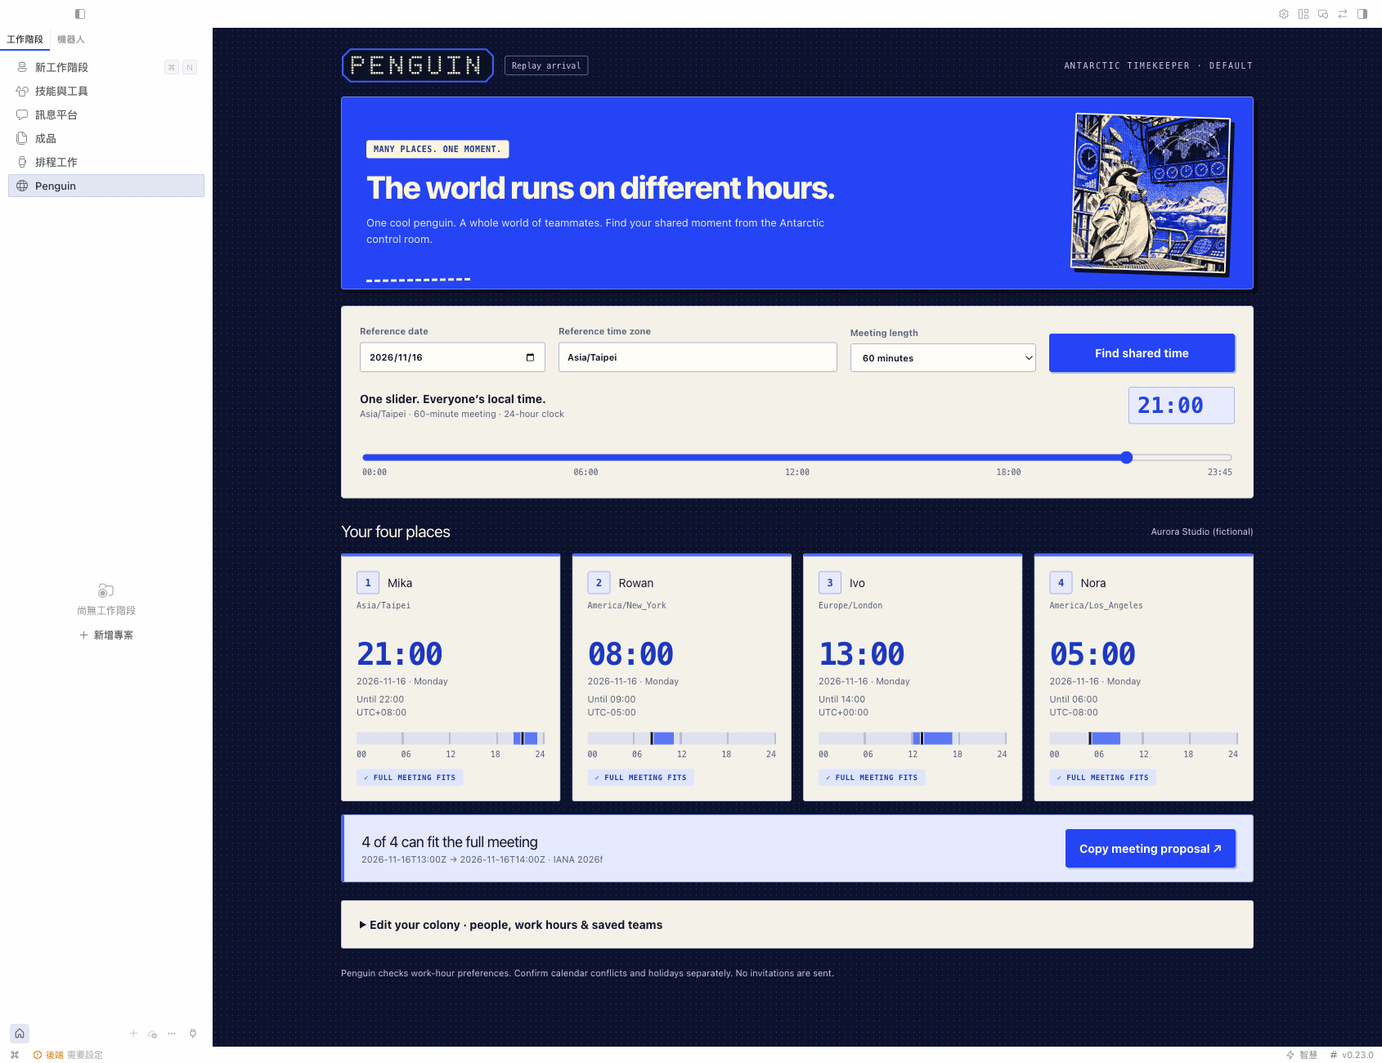
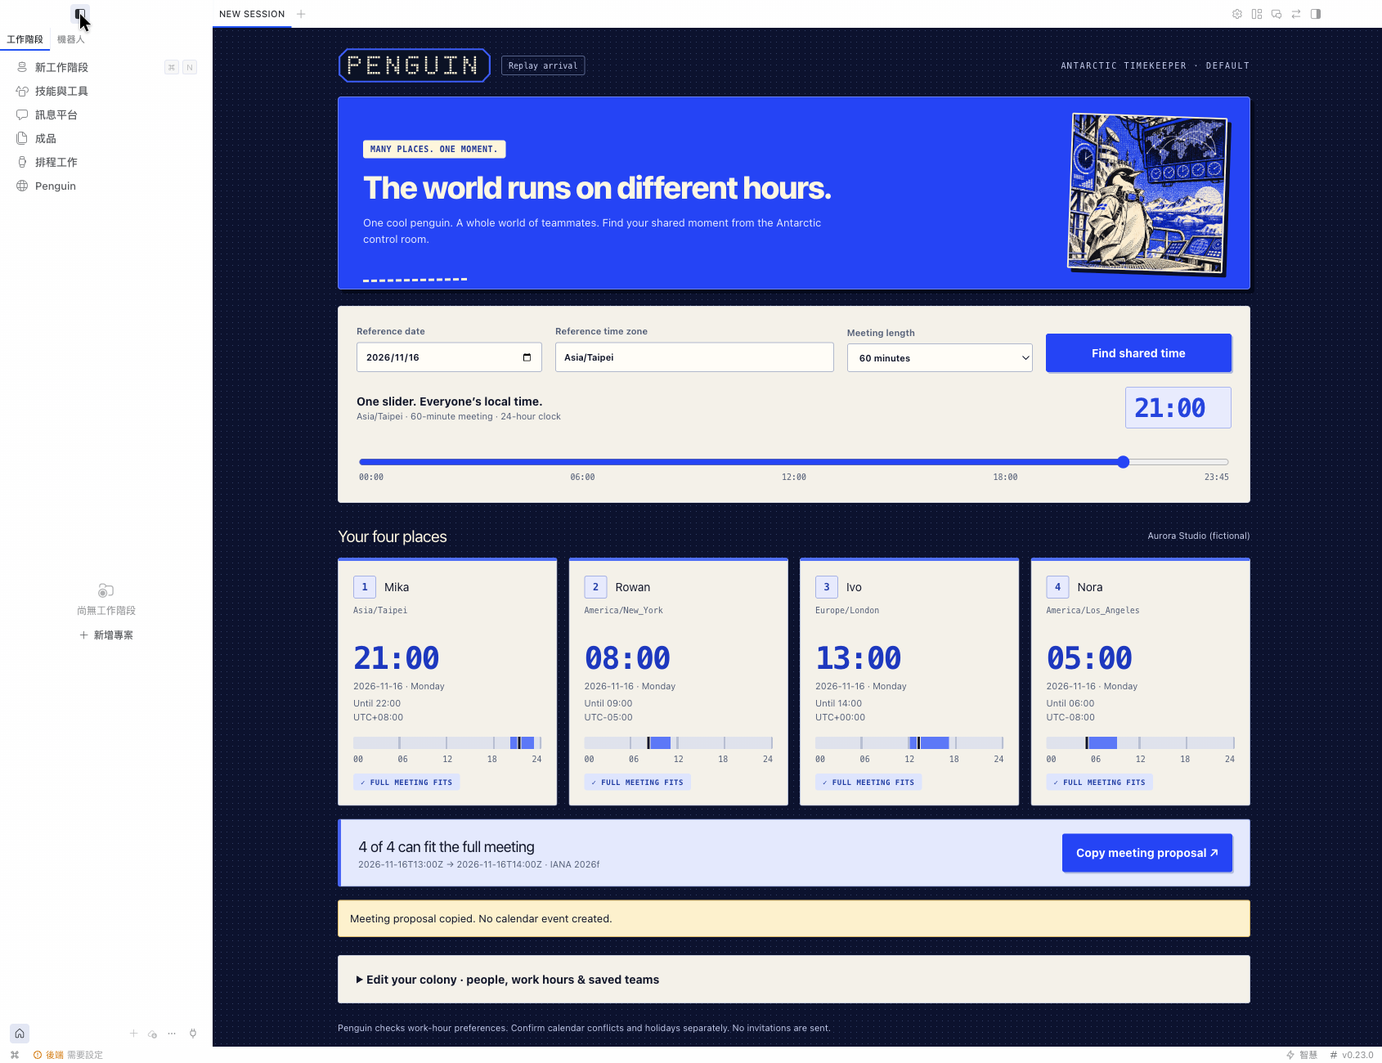
Refine Penguin timeline and proposal send-off; document brand typography

diff --git a/desktop/plugin.js b/desktop/plugin.js
@@ -39,6 +39,29 @@ const introCss = `
 @container(max-width:480px){.p-intro{padding:20px 14px}.p-intro .p-console{padding:20px 12px;border-width:6px}.p-intro .p-console:before{font-size:8px;letter-spacing:1px}.p-intro h1{font-size:23px}.p-intro .p-art{width:200px;height:200px}.p-replay{max-width:90px}}
 `
 
+const experienceCss = `
+.penguin-page{--p-mono:ui-monospace,monospace;--p-display:system-ui,sans-serif}
+.penguin-page .p-selected input{font:700 32px var(--p-mono);font-variant-numeric:tabular-nums;letter-spacing:-2px}
+.penguin-page .p-clockcard .p-time{font-family:var(--p-mono);font-weight:700;font-variant-numeric:tabular-nums;letter-spacing:-2px}
+.penguin-page .p-clocks[aria-busy=true]{opacity:.68}.penguin-page .p-marker{transition:left 120ms linear}
+.p-sendoff{position:relative;isolation:isolate;overflow:hidden;border:1px solid #6e99ff;border-radius:5px;background:#09152e;color:#edf7ff;padding:22px 24px;margin-top:18px;display:flex;gap:24px;align-items:center;animation:p-arrive 400ms ease-out}.p-sendoff .p-art{width:132px;height:132px;flex:0 0 132px;border:1px solid #6a9aff;transform:none;box-shadow:none}.p-sendoff .p-sendoff-copy{flex:1;min-width:0}.p-sendoff h2{font:700 13px var(--p-mono);letter-spacing:1px;color:#9dc6ff;margin:0 0 8px}.p-sendoff h3{font-size:clamp(20px,2.4cqw,28px);font-family:var(--p-display);line-height:1.2;margin:0 30px 10px 0;color:#fff7e5}.p-sendoff p{font-size:13px;color:#c7dafa;margin:7px 0}.p-sendoff button{position:absolute;top:12px;right:12px;background:#132a55;border:1px solid #7899d8;color:white;border-radius:3px;padding:5px 9px;font-size:13px}.p-sendoff .p-final-times{display:flex;gap:7px 18px;flex-wrap:wrap;font:12px var(--p-mono);color:#d4e8ff}.p-sendoff .p-aurora{position:absolute;inset:-50% -10%;z-index:-1;opacity:.38;background:radial-gradient(circle,#e9faff 1px,transparent 1.7px);background-size:7px 7px;mask-image:linear-gradient(165deg,transparent 37%,black 43%,transparent 49%,black 54%,transparent 62%);background-color:#1252df;transform:translateX(-4%) skewY(-8deg);animation:p-aurora 6s ease-in-out 1 alternate}
+
+@keyframes p-aurora{0%{transform:translateX(-10%) skewY(-13deg);opacity:.1}45%{opacity:.45}100%{transform:translateX(5%) skewY(5deg);opacity:.38}}
+@media(prefers-reduced-motion:reduce){.p-sendoff,.p-sendoff .p-aurora,.penguin-page .p-marker{animation:none;transition:none}}
+@container(max-width:800px){.p-sendoff{gap:16px;padding:20px}.p-sendoff .p-art{width:100px;height:100px;flex-basis:100px}}
+@container(max-width:480px){.penguin-page .p-selected input{font-size:28px;max-width:112px}.p-sendoff{display:block;padding:18px}.p-sendoff .p-art{width:86px;height:86px;margin-bottom:14px}.p-sendoff h3{font-size:23px}.p-sendoff .p-final-times{display:grid;grid-template-columns:1fr 1fr;font-size:11px}}
+`
+
+function SendOff({ctx,slot,onClose}) {
+  return h('section',{className:'p-sendoff','aria-label':'Meeting proposal completed'},
+    h('div',{className:'p-aurora','aria-hidden':true}),h(PenguinArt,{ctx}),
+    h('div',{className:'p-sendoff-copy'},h('h2',{},'PROPOSAL COPIED · TRANSMISSION COMPLETE'),
+      h('h3',{},'Dismissed. See you next time in the Antarctic control room.'),
+      h('div',{className:'p-final-times'},...slot.members.map((m,i)=>h('span',{key:i},`${m.name} ${m.start.local.slice(11,16)} · ${m.start.date}`))),
+      h('p',{},'Share the proposal and confirm availability. No calendar event has been created.')),
+    h('button',{onClick:onClose,'aria-label':'Close send-off'},'×'))
+}
+
 function ControlRoom({ctx,onContinue}) {
   useEffect(()=>{const timer=setTimeout(onContinue,3600);return()=>clearTimeout(timer)},[])
   return h('section',{className:'p-intro','aria-label':'Antarctic control room'},
@@ -132,12 +155,13 @@ function Planner({ctx,profile}) {
   const [team,setTeam]=useState(sample), [teamId,setTeamId]=useState('aurora-demo')
   const [date,setDate]=useState('2026-11-16'), [reference,setReference]=useState('Asia/Taipei'), [duration,setDuration]=useState('60')
   const [time,setTime]=useState('21:00'), [ambiguity,setAmbiguity]=useState('reject')
-  const [view,setView]=useState(null), [previewError,setPreviewError]=useState(null)
+  const [view,setView]=useState(null), [previewError,setPreviewError]=useState(null), [previewPending,setPreviewPending]=useState(true)
+  const [completed,setCompleted]=useState(null)
   const [result,setResult]=useState(null), [notice,setNotice]=useState(''), [busy,setBusy]=useState(false), [manual,setManual]=useState('')
   const generation=useRef(0), previewGeneration=useRef(0), epoch=useRef(gatewayActivationEpoch())
   function resetScope(){
     generation.current++;previewGeneration.current++;epoch.current=gatewayActivationEpoch()
-    setTeam(sample());setTeamId('aurora-demo');setResult(null);setView(null);setManual('');setBusy(false)
+    setTeam(sample());setTeamId('aurora-demo');setResult(null);setView(null);setManual('');setBusy(false);setCompleted(null);setPreviewPending(true)
     setNotice('Connection changed. Fictional sample restored. Load a team from this profile to continue.')
   }
   useEffect(()=>{
@@ -146,27 +170,28 @@ function Planner({ctx,profile}) {
   },[])
   useEffect(()=>{
     const seq=++previewGeneration.current,captured=epoch.current
-    setView(null);setPreviewError(null)
-    const timer=setTimeout(async()=>{
+    setPreviewPending(true);setPreviewError(null)
+    ;(async()=>{
       try{
         const answer=await ctx.rest('/preview',{method:'POST',body:{team,reference_zone:reference,local_time:`${date}T${time}`,duration_minutes:Number(duration),ambiguity}})
         if(seq!==previewGeneration.current||captured!==gatewayActivationEpoch())return
-        if(answer.ok)setView(answer.result);else setPreviewError(answer.error)
-      }catch{if(seq===previewGeneration.current)setPreviewError({message:'Enable Penguin’s agent plugin and restart the gateway to connect this planner.'})}
-    },150)
-    return()=>{clearTimeout(timer);previewGeneration.current++}
+        if(answer.ok)setView(answer.result);else {setView(null);setPreviewError(answer.error)}
+      }catch{if(seq===previewGeneration.current){setView(null);setPreviewError({message:'Enable Penguin’s agent plugin and restart the gateway to connect this planner.'})}}
+      finally{if(seq===previewGeneration.current&&captured===gatewayActivationEpoch())setPreviewPending(false)}
+    })()
+    return()=>{previewGeneration.current++}
   },[team,date,reference,duration,time,ambiguity])
   function edit(setter,value){
-    generation.current++;previewGeneration.current++;setter(value);setView(null);setResult(null);setManual('');setNotice('');setBusy(false)
+    generation.current++;previewGeneration.current++;setter(value);setView(null);setResult(null);setManual('');setNotice('');setBusy(false);setCompleted(null);setPreviewPending(true)
     setAmbiguity('reject')
   }
-  function selectTime(value){if(value===time&&ambiguity==='reject')return;previewGeneration.current++;setTime(value);setAmbiguity('reject');setManual('');setNotice('');setView(null)}
+  function selectTime(value){if(value===time&&ambiguity==='reject')return;previewGeneration.current++;setTime(value);setAmbiguity('reject');setManual('');setNotice('');setCompleted(null);setPreviewPending(true)}
   function updateMember(index,change){edit(setTeam,{...team,members:team.members.map((m,i)=>i===index?{...m,...change}:m)})}
   function updateWindow(mi,wi,change){updateMember(mi,{windows:team.members[mi].windows.map((w,i)=>i===wi?{...w,...change}:w)})}
   async function request(path,body,onSuccess){
     if(epoch.current!==gatewayActivationEpoch()){resetScope();return}
     const seq=++generation.current,captured=epoch.current
-    setBusy(true);setNotice('');setManual('')
+    setBusy(true);setNotice('');setManual('');setCompleted(null)
     try{
       const answer=await ctx.rest(path,{method:'POST',body})
       if(seq!==generation.current||captured!==gatewayActivationEpoch())return
@@ -176,19 +201,23 @@ function Planner({ctx,profile}) {
     finally{if(seq===generation.current)setBusy(false)}
   }
   async function copy(){
-    if(!view)return
+    if(!view||previewPending)return
     if(epoch.current!==gatewayActivationEpoch()){resetScope();return}
-    const text=proposal(view)+(view.all_available?'':'\nNote: this time is outside at least one member’s work hours.')
-    try{const ok=await ctx.os.writeClipboard(text);if(!ok)throw Error('clipboard');setNotice('Meeting proposal copied.')}
-    catch{setManual(text);setNotice('Select and copy the proposal below.')}
+    const copiedView=view,seq=previewGeneration.current,captured=epoch.current
+    const text=proposal(copiedView)+(copiedView.all_available?'':'\nNote: this time is outside at least one member’s work hours.')
+    try{
+      const ok=await ctx.os.writeClipboard(text);if(!ok)throw Error('clipboard')
+      if(seq!==previewGeneration.current||captured!==gatewayActivationEpoch())return
+      setNotice('Meeting proposal copied. No calendar event created.');setCompleted(copiedView)
+    }catch{if(seq===previewGeneration.current&&captured===gatewayActivationEpoch()){setManual(text);setNotice('Select and copy the proposal below. No calendar event created.')}}
   }
   function chooseSlot(slot){
     const choice=slot.reference_start.fold?'later':'earlier'
     if(date===slot.reference_start.date&&time===slot.reference_start.local.slice(11,16)&&ambiguity===choice)return
-    previewGeneration.current++;setView(null);setDate(slot.reference_start.date);setTime(slot.reference_start.local.slice(11,16))
+    previewGeneration.current++;setPreviewPending(true);setCompleted(null);setDate(slot.reference_start.date);setTime(slot.reference_start.local.slice(11,16))
     setAmbiguity(choice);setManual('');setNotice('')
   }
-  return h('main',{className:'penguin-page'},h('style',{},css+introCss),intro?h(ControlRoom,{ctx,onContinue:()=>setIntro(false)}):h('div',{className:'p-wrap'},
+  return h('main',{className:'penguin-page'},h('style',{},css+introCss+experienceCss),intro?h(ControlRoom,{ctx,onContinue:()=>setIntro(false)}):h('div',{className:'p-wrap'},
     h('header',{className:'p-top'},h(Wordmark),h('button',{className:'p-replay',onClick:()=>setIntro(true)},'Replay arrival'),h('span',{className:'p-tag'},`ANTARCTIC TIMEKEEPER · ${profile}`)),
     h('section',{className:'p-hero'},h('div',{},h('span',{className:'p-badge'},'MANY PLACES. ONE MOMENT.'),
       h('h1',{},'The world runs on different hours.'),h('p',{className:'p-lead'},'One cool penguin. A whole world of teammates. Find your shared moment from the Antarctic control room.')),h(PenguinArt,{ctx})),
@@ -207,12 +236,13 @@ function Planner({ctx,profile}) {
       previewError&&h('div',{className:'p-status',role:'status'},previewError.message,
         previewError.code==='ambiguous_local_time'&&h('div',{className:'p-options'},...['earlier','later'].map(choice=>h('button',{className:'p-secondary',key:choice,onClick:()=>setAmbiguity(choice)},`Use ${choice} occurrence`))))),
     h('div',{className:'p-row p-between p-overview'},h('h2',{},`Your ${team.members.length===4?'four':team.members.length} places`),h('span',{className:'p-small'},team.name)),
-    h('section',{className:'p-clocks','aria-label':'Side-by-side team clocks'},...team.members.map((member,i)=>h(ClockCard,{key:i,index:i,member,view:view?.members[i]}))),
+    h('section',{className:'p-clocks','aria-label':'Side-by-side team clocks','aria-busy':previewPending},...team.members.map((member,i)=>h(ClockCard,{key:i,index:i,member,view:view?.members[i]}))),
     h('section',{className:'p-summary','aria-live':'polite'},
-      h('div',{},h('h2',{},view?`${view.members.filter(m=>m.available).length} of ${team.members.length} can fit the full meeting`:'Choose a valid time to compare'),
+      h('div',{},h('h2',{},previewPending?'Updating everyone’s clocks…':view?`${view.members.filter(m=>m.available).length} of ${team.members.length} can fit the full meeting`:'Choose a valid time to compare'),
         h('div',{className:'p-small'},view?`${view.start_utc} → ${view.end_utc} · IANA ${view.database.iana_version}`:'Penguin checks the whole meeting, including daylight-saving transitions.')),
-      h('button',{className:'p-primary',disabled:!view,onClick:copy},'Copy meeting proposal ↗')),
-    notice&&h('div',{className:'p-status',role:'status'},notice),manual&&h('pre',{className:'p-manual',tabIndex:0,'aria-label':'Meeting proposal to copy'},manual),
+      h('button',{className:'p-primary',disabled:!view||previewPending,onClick:copy},'Copy meeting proposal ↗')),
+    notice&&!completed&&h('div',{className:'p-status',role:'status'},notice),manual&&h('pre',{className:'p-manual',tabIndex:0,'aria-label':'Meeting proposal to copy'},manual),
+    completed&&h(SendOff,{ctx,slot:completed,onClose:()=>setCompleted(null)}),
     h('details',{className:'p-settings'},h('summary',{},'Edit your colony · people, work hours & saved teams'),
       h('p',{className:'p-sub'},'Confirm every person’s IANA zone. Work bars show local wall-clock hours; folds repeat and gaps are skipped in the precise calculation.'),
       h('div',{className:'p-teamhead'},h(Field,{label:'Team name',value:team.name,onChange:v=>edit(setTeam,{...team,name:v}),maxLength:80})),

diff --git a/docs/BRAND_GUIDELINES.md b/docs/BRAND_GUIDELINES.md
@@ -1,0 +1,42 @@
+# Penguin brand guidelines
+
+Penguin is an Antarctic control room with a cool, hand-drawn commander and an electric-blue instrument panel. Keep the original character of its typography. Consistency means giving each kind of information a repeatable role, not turning every label into plain body text.
+
+## Typography roles
+
+Use local system font stacks only. Do not copy Hermes marketing-site font files or ship commercial/trial fonts. Hermes is a reference for hierarchy and clarity, not a source of reusable font licenses.
+
+| Role | Examples | Family / weight | Size and tracking |
+| --- | --- | --- | --- |
+| Brand wordmark | PENGUIN | Original drawn 5×7 dot-matrix glyphs | Preserve the blue frame, warm-white dots and exact spelling; do not substitute a plain font |
+| Main statement | The world runs on different hours. | `system-ui, sans-serif`, 800 | Original responsive 28–39px treatment; 1.07 line height; −1.5px tracking on wide screens |
+| Section / person names | Your four places; Mika | Same system sans family | 20px section heading; 14px person names; normal readable spacing |
+| Controls and explanation | Find shared time; Reference date; explanatory copy | Same system sans family | Base 14px/1.5; supporting copy keeps its established 11–13px roles; no global uppercase or tracking reset |
+| Control-room telemetry | ANTARCTIC TIMEKEEPER | `ui-monospace, monospace`, regular | Original 10px uppercase and 1.7px tracking; preserve the technical character |
+| Availability badge | FULL MEETING FITS | Same monospace family, 700 | Original compact 9px clock-card badge with .5px tracking; retain blue/amber meaning and readable padding |
+| Replay control | Replay arrival | Same monospace family, regular | Original 10px treatment; do not replace with ordinary body-button typography |
+| Timezone identifiers | Europe/London; America/New_York | Same monospace family, regular | Original 10px; retain IANA spelling, punctuation and neutral tracking; allow long identifiers to wrap |
+| Clock numerals | Selected 21:00 and four local clocks | Same monospace family, 700, tabular numerals | **Identical family, weight and −2px tracking.** Selected time 32px; cards 38px. Small screens 28px / 31px. Size may follow hierarchy; glyph design must match |
+| Timeline marks | 00, 06, 12, 18, 24 | Same monospace family | Original compact technical scale; never confuse local-clock bars with exact elapsed-time calculations |
+
+The numeric contract is explicit in `desktop/plugin.js` through `--p-mono`. Test computed font family, weight and letter spacing on the selected-time input and the first card; all three must match. The status line, badge, replay control and zone labels must continue to resolve to a monospace family. Font metrics can vary by operating system; no proprietary font binary is bundled.
+
+## Color, artwork and layout
+
+- Keep electric blue, dark navy, warm paper white and blue-white dots. Amber means the full meeting is outside a member's work window; it is not a decoration.
+- Preserve the original Penguin illustration and PENGUIN wordmark. New artwork must retain their line and halftone character and have its own source/permission record.
+- Four people appear across the desktop, two columns on narrow screens. Dates, offsets, meeting end times and availability must remain readable.
+- Do not place decorative overlays over clock values, controls or error messages. The timetable has priority over cinematic effects.
+
+## Motion and voice
+
+- Arrival is short, skippable and replayable. Do not force a ten-second movie before every use.
+- Copying a proposal successfully may show the commander with a short blue-white dot-matrix aurora. Keep it in the page, dismissible, and stop animation for reduced-motion preferences.
+- Use “proposal copied” / “proposal ready”. Penguin currently does **not** book calendar events, invite people or verify calendar conflicts.
+- The send-off line is: “Dismissed. See you next time in the Antarctic control room.”
+- “Your time is under my command.” is a subtitle/tagline. Narration describing the mission is voice-over, not a claim of synchronized character dialogue.
+- The plugin does not autoplay audio. Separate narrated demonstration media must be labeled as such; AI music and narration are not included in the plugin's MIT license.
+
+## Review gate
+
+Preserve the four specifically approved text styles above before changing a global font rule. Review desktop and phone screenshots, the selected/card numeral match, long IANA names, disabled/error states and reduced motion. Changes to visual personality need a new comparison against Crystal's accepted reference, not an assumption that more uniform is better.

diff --git a/README.md b/README.md
@@ -4,7 +4,7 @@
 
 Penguin is a native Hermes Agent plugin for distributed teams: precise time conversion, meeting windows that fit the **whole** meeting, and saved team settings. Its optional Desktop page shows four people side by side with one shared time slider. Narrow screens use two columns and a horizontally scrollable timeline.
 
-This release candidate is not yet listed in the catalog. The electric-blue Antarctic control room uses Crystal's Penguin illustration and a crisp PENGUIN dot-matrix wordmark, with four clocks across on desktop and two columns on small screens. A 3.6-second arrival screen can be skipped or replayed; reduced-motion preferences disable its entrance animation. It is a local UI animation, not a generated video, and plays no audio.
+This release candidate is not yet listed in the catalog. The electric-blue Antarctic control room uses Crystal's Penguin illustration and a crisp PENGUIN dot-matrix wordmark, with four clocks across on desktop and two columns on small screens. A 3.6-second arrival screen can be skipped or replayed; reduced-motion preferences disable its entrance animation. Copying a meeting proposal successfully shows a dismissible Penguin send-off with a short blue-white dot-matrix aurora. The send-off says explicitly that no calendar event was created, and is cleared when the selection changes. It is a local UI animation, not a generated video, and plays no audio.
 
 ![Penguin's four-clock planner inside Hermes Desktop](docs/native-planner.png)
 
@@ -31,6 +31,16 @@ hermes
 For Desktop, connect the app to the same home/profile, enable Penguin's Desktop half in **Capabilities → Plugins**, and open **Penguin** in the sidebar. Restart the gateway after adding its backend. Desktop is opt-in. No installed user profile was changed while building this prototype. The standalone browser harness in the development workspace is a test preview, not a replacement for Hermes.
 
 Native macOS verification used the unmodified official v0.23.0 source-built Electron app and an isolated gateway/home. The sidebar route, backend-loaded illustration, four clocks, shared suggestions, whole-meeting rejection, save/edit/load and repeated-hour choice were exercised in the real app. No model provider was configured in that test profile: Desktop works without an LLM, while conversational model-driven tool selection remains untested. Tool registration and calls were separately tested through the real Hermes PluginManager and registry.
+
+## Interface typography and interaction
+
+Brand specification: [English](docs/BRAND_GUIDELINES.md) · [繁體中文](docs/BRAND_GUIDELINES.zh-TW.md).
+
+The original Penguin typography is retained: the Antarctic status line, availability badges, replay control and IANA zone labels keep their compact monospace character. The upper selected-time input now explicitly shares the clock cards’ numeral family, weight, tabular-number feature and tracking. The PENGUIN wordmark remains a drawn dot matrix. Fonts resolve locally through system font stacks; no commercial website fonts, trial font files or external font requests are bundled.
+
+Moving the shared timeline starts a backend preview immediately. Previous clocks remain readable while an update is in flight, with an updating state and copying disabled; only the newest response is accepted. A stale clipboard result cannot display a completion for a new selection or another profile. The completion panel remains in the planner, is dismissible, respects reduced motion and does not autoplay audio. Separate narrated demo media is not part of this package.
+
+![Proposal-only send-off in actual Hermes Desktop](docs/native-sendoff.png)
 
 ## Four agent tools
 

diff --git a/docs/BRAND_GUIDELINES.zh-TW.md b/docs/BRAND_GUIDELINES.zh-TW.md
@@ -1,0 +1,41 @@
+# Penguin 品牌字體與介面規範
+
+**核心原則：保留角色，讓同一類資訊有一致的用途。** Penguin 是南極控制室，不是把所有文字換成一般無襯線的制式面板。
+
+## 指定保留的四種風格
+
+| 文字類型 | 代表文字 | 固定用途與樣式 |
+| --- | --- | --- |
+| 控制室狀態 | `ANTARCTIC TIMEKEEPER` | 保留原本等寬、全大寫、較開的字距；只用於控制室識別／狀態，不套在長段說明 |
+| 可用性徽章 | `FULL MEETING FITS` | 保留緊湊、粗體等寬及原來的字距；藍色代表整場會議符合，琥珀色代表超出工作窗 |
+| 技術式小按鈕 | `Replay arrival` | 保留原本細緻的等寬按鈕；不要改成與主要動作相同的粗大按鈕 |
+| 時區識別 | `Europe/London` | 保留原本等寬字；IANA 拼字與斜線不改，長名稱可以換行 |
+
+## 數字與文字層級
+
+- 上方選定時間與下方四張時鐘：**同一字型、700 字重、等寬數字、−2px 字距**。上方為 32px，下方為 38px；手機為 28px／31px。大小可反映層級，數字的造型不能各用一套。
+- 主標與一般說明維持原本系統無襯線：主標強而清楚；操作標籤、按鈕、名字與段落保持各自原有層級。
+- 品牌 `PENGUIN` 是原創點陣字標，不替換成普通字體，也不把每一段文字都做成點陣。
+- 不用一條全域規則抹平所有字距、字重及大寫設定。要改一個角色，就連同同一角色的所有位置一起比較。
+- 字型只引用電腦已有的 `system-ui` 與 `ui-monospace` 系統字體。沒有打包 Hermes 官網的商業／試用字型，沒有外部字型請求；不同作業系統的實際字形可能略有差異。
+
+## 視覺與互動
+
+維持電藍、深海軍藍、暖紙白、手繪網點企鵝及點陣儀表。桌面四人橫向並排，窄螢幕兩欄；時間、日期、UTC offset 與工作窗永遠比裝飾重要。
+
+開場簡短、可略過、可重播。會議提案複製成功後，企鵝結尾及藍白點陣極光出現在頁內，可關閉，不強迫離開時間表；尊重「減少動態效果」。文字必須說 **提案完成**，不能稱為已預訂或已寄出邀請。
+
+結尾固定台詞：
+
+> Dismissed. See you next time in the Antarctic control room.
+
+`Your time is under my command.` 作為字幕／標語。介紹跨時區問題的聲音是敘事旁白，不宣稱精準對嘴。插件本身不自動播音；另外製作的 AI 示範配音與音樂不包含在程式碼的 MIT 授權裡。
+
+## 每次修改的驗收
+
+1. 對照上述四種被指定保留的樣式，不能因「統一」而失去原來個性。
+2. 在真正 Hermes 中比較上下數字的 computed font family、font weight、letter spacing，三項均須相同。
+3. 檢查桌面四欄、手機兩欄、長時區名、錯誤／停用狀態、減少動畫。
+4. 新的品牌方向需要新比較稿；既有被認可的影片和素材保留，不覆蓋。
+
+技術對照：[英文規範](BRAND_GUIDELINES.md)；實作位於 `desktop/plugin.js`。
